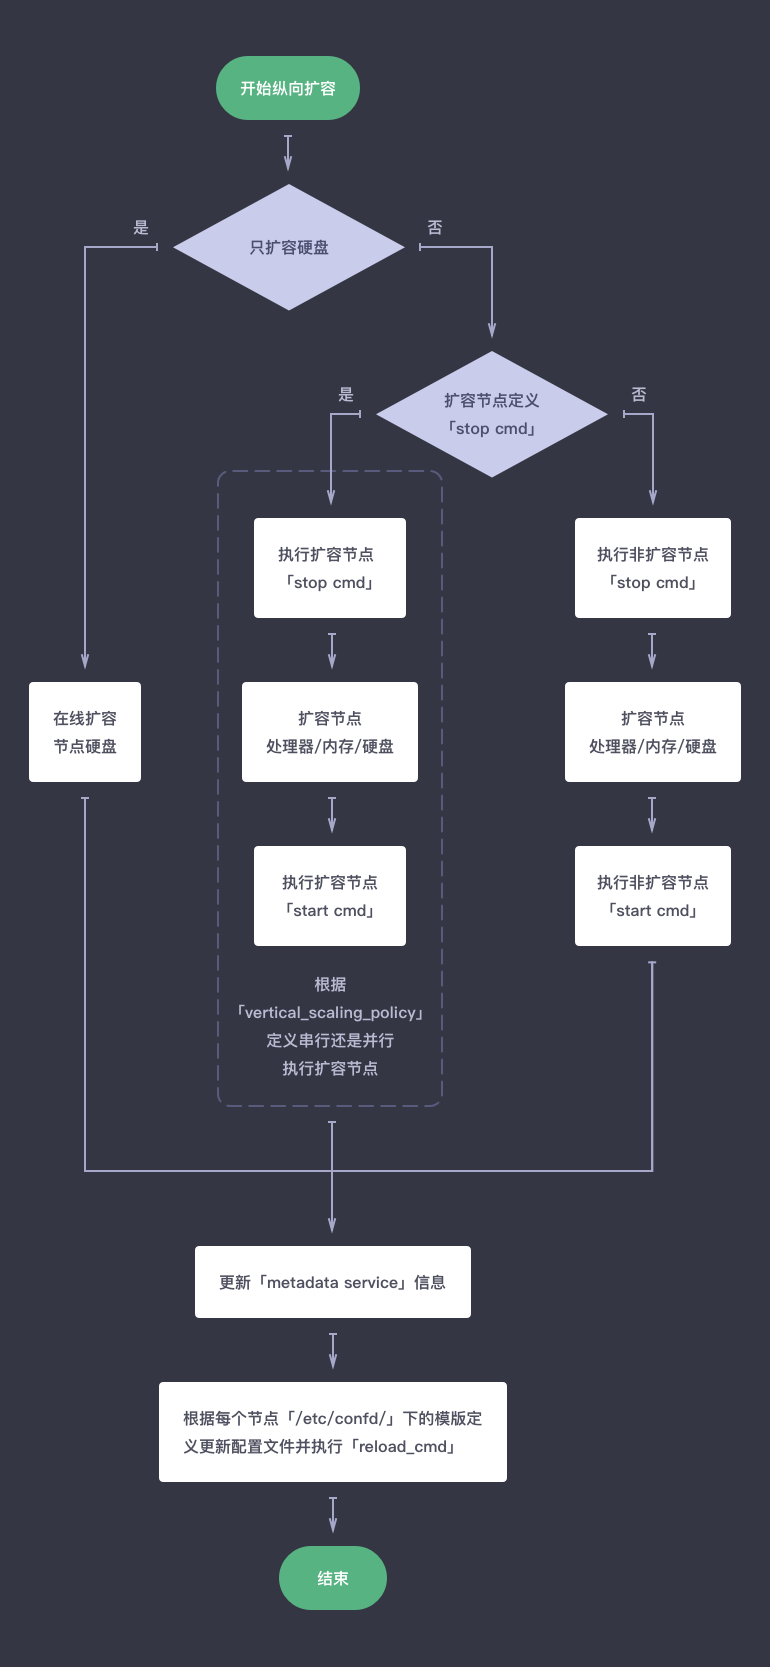
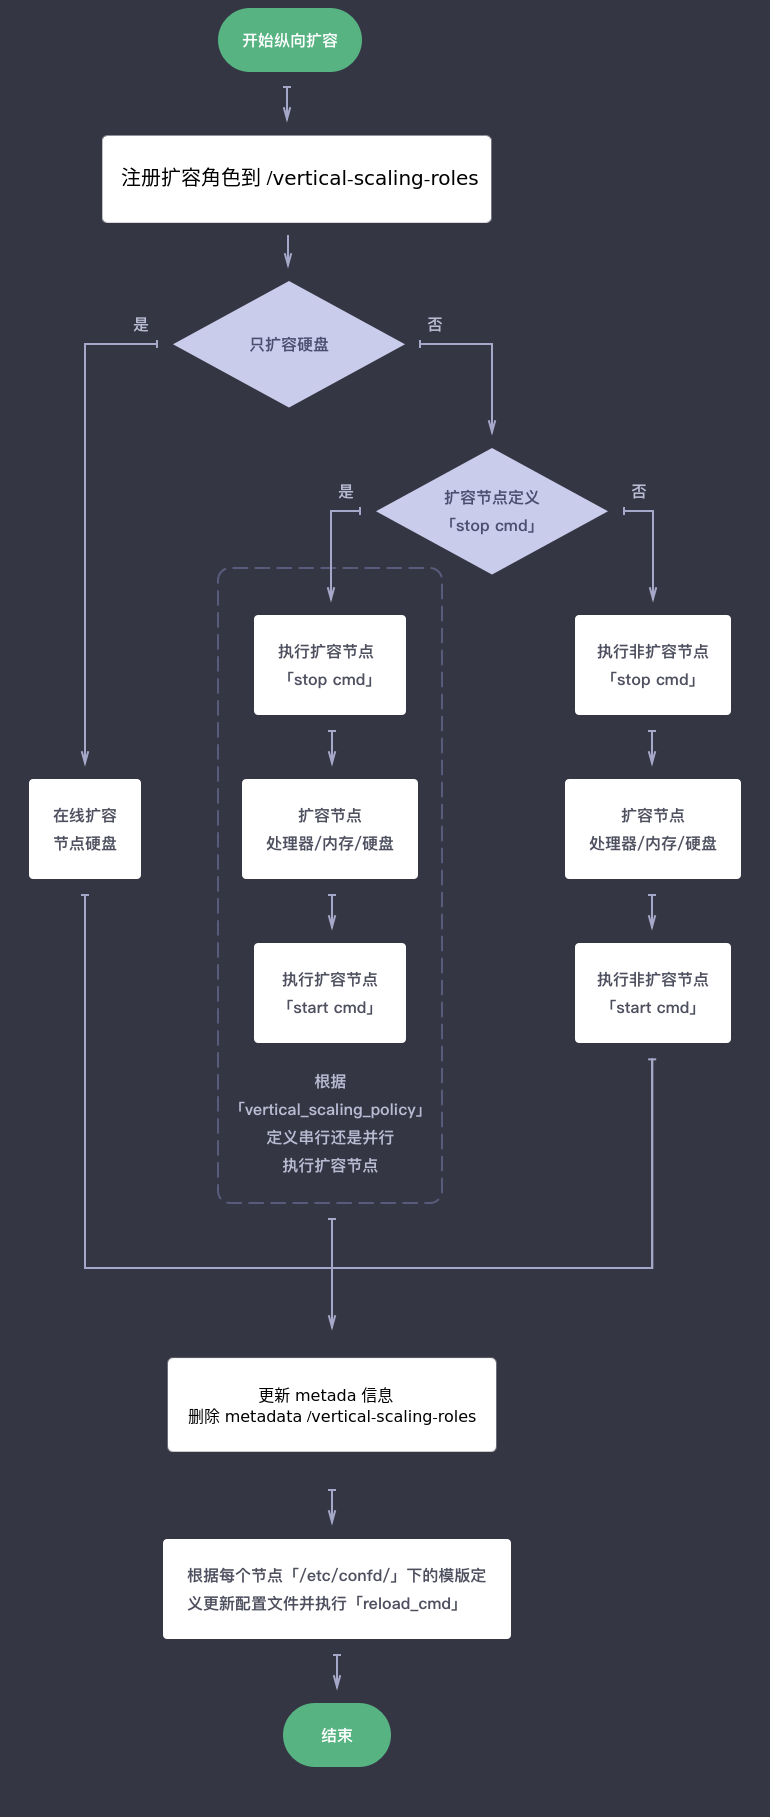
update docs for registering vertical scaling roles

diff --git a/developer/docs/metadata-service.md b/developer/docs/metadata-service.md
@@ -103,6 +103,7 @@
           <li style="list-style-type:none;">/<b>cmd</b> [cmd string]</li>
           <li style="list-style-type:none;">/<b>timeout</b> [timeout(second)]</li>
         </ul>
+      <li style="list-style-type:none;">/<b>vertical-scaling-roles</b> [role names]</li>
     </ul>
   <li style="list-style-type:none;">/<b>[cluster ID]*</b></li>  
   与 self 平级目录，每个 cluster ID 目录下内容结构与 self 相同，self 通过软链接指向自己的 cluster ID　
@@ -207,6 +208,8 @@
 * cmd <br>
   cmd 表示本节点需要执行的命令。开发者不需要用到这类信息，这是青云调度系统转发并执行应用命令(开发者只需要在模版中定义命令即可，详情参见[应用开发模版规范-完整版](specifications/specifications.md))，如启动应用命令等。
 
+* vertical-scaling-roles <br>
+  vertical-scaling-roles 表示当前正在进行纵向扩容的角色节点名称，目前的扩容策略是每次扩容一类角色节点，所以 vertical-scaling-roles 的值通常即为角色名称，如 master ； 如果扩容的角色节点设置了 replica ，则此项值为扩容角色和其replica 角色，以逗号隔开，如 master,master-replica 。扩容完成后，此项值会从 metadata 中移除。
 
 ### 查询
 在创建好一个集群后，登陆到任意一个节点，在文件 /etc/confd/confd.toml 里找到 nodes 这一行(这个文件是青云调度系统在用户创建集群的时候自动生成的)，这一行定义的是 metadata server 的 IP 地址，任取一个 IP，运行下面命令即可看到所有信息。注明：同一 VPC 里所有集群这个文件内容相同。
